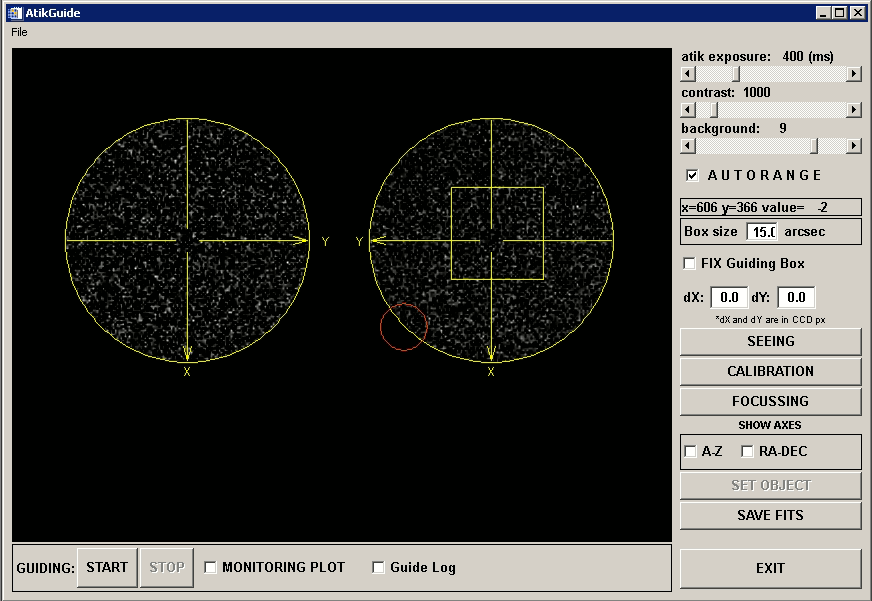
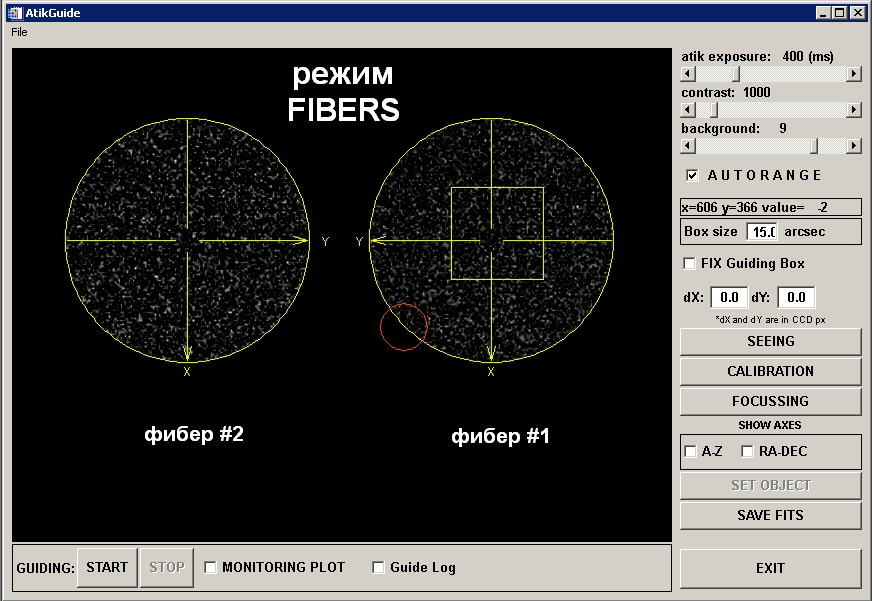
new text

Changed region(s): [[0.3096, 0.0899, 0.4644, 0.2097], [0.1548, 0.6889, 0.2787, 0.7488], [0.4954, 0.7188, 0.6193, 0.7488]]

diff --git a/4_UI.md b/4_UI.md
@@ -94,27 +94,32 @@
 
 Кроме наведения на щель, функция **`SHIFT, px CCD`** используется в фотометрических наблюдениях, а также при получении плоских сумеречных полей для смещения кадра и последующего медианного исключения звезд.
 
-> ВНИМАНИЕ: для корректной работы требуется запуск скрипта bta_control_net на рабочем столе управляющего компьютера.
+> ВНИМАНИЕ: для корректной работы требуется запуск скрипта bta_control_net.bat на рабочем столе управляющего компьютера.
 
 ## Подвижки поисковых фиберов
 
 ![scr_RCbuttons3](pic/scr_RCbuttons3.png)
 
+**`MOVE fiber 1/2`** — передвигает фиберы в положение, указанное в полях (есть возможность изменять вручную), кнопки позволяют использовать фиберы по отдельности.
+
+**`MOVE MANUAL`** — включает ручное управление фиберами с помощью клавиатуры, это особенно актуально при корректировке гидировочной звезды после приезда на расчетное положение X, Y, которое берется из каталога USNO2.
+
+Для фибера 1 (правый на подсмотре): **[←], [→], [↑], [↓]**
+
+Для фибера 2 (левый на подсмотре): **[Ctrl] + [←], [→], [↑], [↓]**
+
+Синие стрелочки показывают индикацию при работе.
+
 ## Дополнительная панель
 
 ![scr_RCbuttons4](pic/scr_RCbuttons4.png)
 
-**`MOVE FIBERS`** — устанавливает фиберы на значения из полей
-
-**`Set guiding stars`** — забирает значения из полей фиберов из программы поиска звезд
-
-**`set initial`** — устанавливает фиберы “в ноль”, т.е. на нуль-концевики
-
-**`Focusing`** — фокусировка фиберов (отдельное окно)
-
-**`LEDS menu`** — ручное управление светодиодами (отдельное окно)
-
-**`Save calibration `** — (сервисная функция) сохраняет в специальный файл звездные величины для фотометрической калибровки гида (уточнить по коду)
+- **`MOVE FIBERS`** — устанавливает фиберы на значения из полей;
+- **`Set guiding stars`** — забирает значения из полей фиберов из программы поиска звезд;
+- **`set initial`** — устанавливает фиберы “в ноль”, т.е. на нуль-концевики;
+- **`Focusing`** — фокусировка фиберов (отдельное окно);
+- **`LEDS menu`** — ручное управление светодиодами (отдельное окно);
+- **`Save calibration `** — (сервисная функция) сохраняет в специальный файл звездные величины для фотометрической калибровки гида (уточнить по коду);
 
 
 
@@ -122,22 +127,137 @@
 
 <img src="pic/fiberFocus.png" style="zoom:50%;" />
 
+Программа фокусировки фиберов Fibers Focusing позволяет:
 
+1. ввести значения фокуса вручную из поля ввода;
+2. сдвинуть значения с помощью клавиатуры — фибер1: **[Ctrl] + [←], [→]** ; фибер 2: **[←], [→]**;
+3. произвести автофокусировку.
+
+Данная программа может актуальна в начале сета для проверки сфокусированности фиберов и более четкого гидирования. 
+
+> ВНИМАНИЕ: при хорошем качестве изображений для длинных экспозиций есть резон корректировать фокус БТА на значение в мм, полученное по отклонению значения фокуса фибера второй (негидирующей) звезды. В этом случае используется режим автофокусировки. При этом необходимо заблаговременно установить вторую звезду в центр фибера.
 
 
 ## Программа гидирования AtikGuide
 
+Программа AtikGuide носит такое название исходя из семейства Atik, используемых нами для подсмотра.
 
+Рабочей областью является поле захвата изображения с подсмотра, которое имеет различный вид в зависимости от положения диагонального зеркала (см. скриншоты ниже).
+
+**FIELD**:  на изображение поля накладывается положение щели (желтые вертикальная линия для SCORPIO-1 и горизонтальная — для SCORPIO-2), а также специальный малый квадрат на щели, отмечающий центр вращения поля. На скриншоте ниже также показан указатель центроида красным кружком и большой бокс для измерения параметров звезды (используется процедурами `SEEING` и `MONITORING PLOT`)
+
+![scr_Guide](pic/scr_Guide2.png)
+
+Рис. *Основное окно управления подсмотром и гидированием AtikGuide в режиме FIELD для SCORPIO-2.*
+
+**FIXME** - обновить картинку FIELD, добавить стрелки RA-DEC, какое-нибудь поле (например, галактика).
+
+
+
+**FIBERS**:  на изображение поля накладываются две маски в виде больших кругов для обоих световодов, внешняя часть захваченного изображения игнорируется.
 
 ![scr_Guide](pic/scr_Guide.png)
 
+Рис. *Основное окно управления подсмотром и гидированием AtikGuide в режиме FIBERS.*
+
+**FIXME** - обновить картинку FIBERS, добавить стрелки AZ, две звезды разной яркости по центру с включенными опциями FIX Guiding Box, MON PLOT, guide log и гидированием (зеленым).
+
+**FIXME** - SAVE FITS need debug
+
+Основная панель операций:
+
+  **`START`** — включает гидирование, перед этим необходимо провести предварительную процедуру установки звезды;
+
+  **`STOP`** — выключает гидирование;
+
+- [ ] **MONITORING PLOT** — запускает дополнительное окно мониторинга параметров, вычисляемые по звезде гидирования (описано ниже);
+
+- [ ] **Guide Log** — запускает дополнительное служебное окно с журналом коррекций телескопа, куда выводятся время и величины коррекций.
+
+**atik exposure** — слайдер для регулировки значения экспозиции камеры подсмотра (0-2000ms). Рекомендуется использовать значение 400ms для большинства задач.
+
+**contrast** — слайдер для регулировки контраста изображения (в режиме Autorange не учитывается).
+
+**background** — слайдер для регулировки фона изображения (в режиме Autorange не учитывается).
+
+- [x] **A U T O R A N G E** — флажок включения/выключения режима автодиапазона вывода изображения, включено по умолчанию. Позволяет отдельно работать со статистикой изображений фиберов, выводя для каждого различные значения контраста и фона.
+
+**Box size** (arcsec) [    ] — задает размер бокса гидирования, стандартный размер 15 arcsec достаточен для большинства задач.
+
+- [ ] **FIX Guiding Box** — фиксирует положение бокса гидирования во избежание нечаянного изменения его положения во время гидирования, по умолчанию отключено для выбора звезды гидирования.
+
+**dX:** [   ]  **dY:** [   ] — (функция в разработке) позволяет с использованием флажка FIX Guiding Box задавать смещение телескопа в единицах пикселей основного приемника (*dX and dY are in CCD px). Это может быть полезно для контрольного смещения при установке объекта на щель в режиме *LONG SLIT*. (**FIXME**)
+
+**`SEEING`** — вычисляет значение Seeing в arcsec внутри бокса гидирования, а также центроид звезды (X, Y).
+
+**`CALIBRATION`** — служебная кнопка, позволяющая добавить запись по текущей инструментальной фотометрии в отдельный файл, используемый для калибровки нулевого поглощения.
+
+**`FOCUSING`** — фокусировка фиберов, сейчас не используется. (**FIXME**)
+
+**show axes** — показывать направления
+
+- [x] **A-Z**		(азимутальное–зенитное)
+- [ ] **RA-DEC** (прямое восхождение–склонение)
+
+**`SAVE FITS`** — сохраняет текущее изображение подсмотра в FITS-файл.
+
+**`EXIT`** — закрывает окно программы гидирования.
+
+---
+
+Кроме того, в программе AtikGuide имеется минимальное меню, содержащее вызов отдельного окна с настройками *File/Preferences*, открывается окно GuideSetup:
+
+![GuidePref](pic/GuidePref.png)
+
+Здесь можно настроить следующие параметры:
+
+*Для режима FIELD*:
+
+Slit Center X, Slit Center Y – координаты центра щели (центр вращения поля после юстировки)
+
+*Для режима FIBERS*:
+
+X-Cross 2, Y Cross 2 – координаты левого световода (номер 2);
+
+X-Cross 1, Y-Cross 1 – координаты правого световода (номер 1);
+
+Fiber Radius, pix –  радиус световода (одинаковый для обоих);
+
+*Для графика мониторинга*:
+
+Elapsed Time, min – (размах по оси абсцисс) пройденное время;
+
+dAZ range, arcsec – (размах по оси ординат) диапазон для отклонений от центра бокса в arcsec.
+
+> ВНИМАНИЕ: Значения параметров GuideSetup обновляются в режиме реального времени.
 
 
 
-
-![scr_GuideLog](pic/scr_GuideLog.png)
-
-
+## Окно MONITORING
 
 ![scr_Monitoring](pic/scr_Monitoring.png)
 
+Рис. *Окно мониторинга параметров гидирующей звезды.*
+
+**FIXME** – обновить картинку на из реальных наблюдений
+
+В заголовке отображается дополнительно информация о координатах звезды, звездные величины *R* и *B* из каталога USNO2, а также номер световода. Например: Star J 14 38 45.4 +05 11 29.2 R=11.9; B=13.5 (Fiber #1).
+
+В основной части экрана расположены 4 основных графика:
+
+- *Absorp*: Приблизительное поглощение  d*R* (mag)  **FIXME** => Extinction
+- *Seeing*: Качество изображения (arcsec)
+- *dA*: Отклонение по азимутальному направлению A (arcsec)
+- *dZ*: Отклонение по зенитному направлению Z (arcsec)
+
+В нижней части экрана расположена панель статуса со следующими элементами:
+
+**`CLR`**  – кнопка очистки буфера, подразумевается делать это перед началом наблюдений (FIXME debug)
+
+**`Print 2 PS`** – кнопка сохранения графика мониторинга в формате PostScript с момента очистки буфера, подразумевается делать это после наблюдений (FIXME debug)
+
+**Star Peak** – измеренное значение максимума сигнала от звезды (в отсчетах)
+
+**R(mag)** – измеренное по фотометрии значение R гидирующей звезды (в зв. величинах)
+
+**BTA Status:** статус БТА (Tracking, Stop, …)
